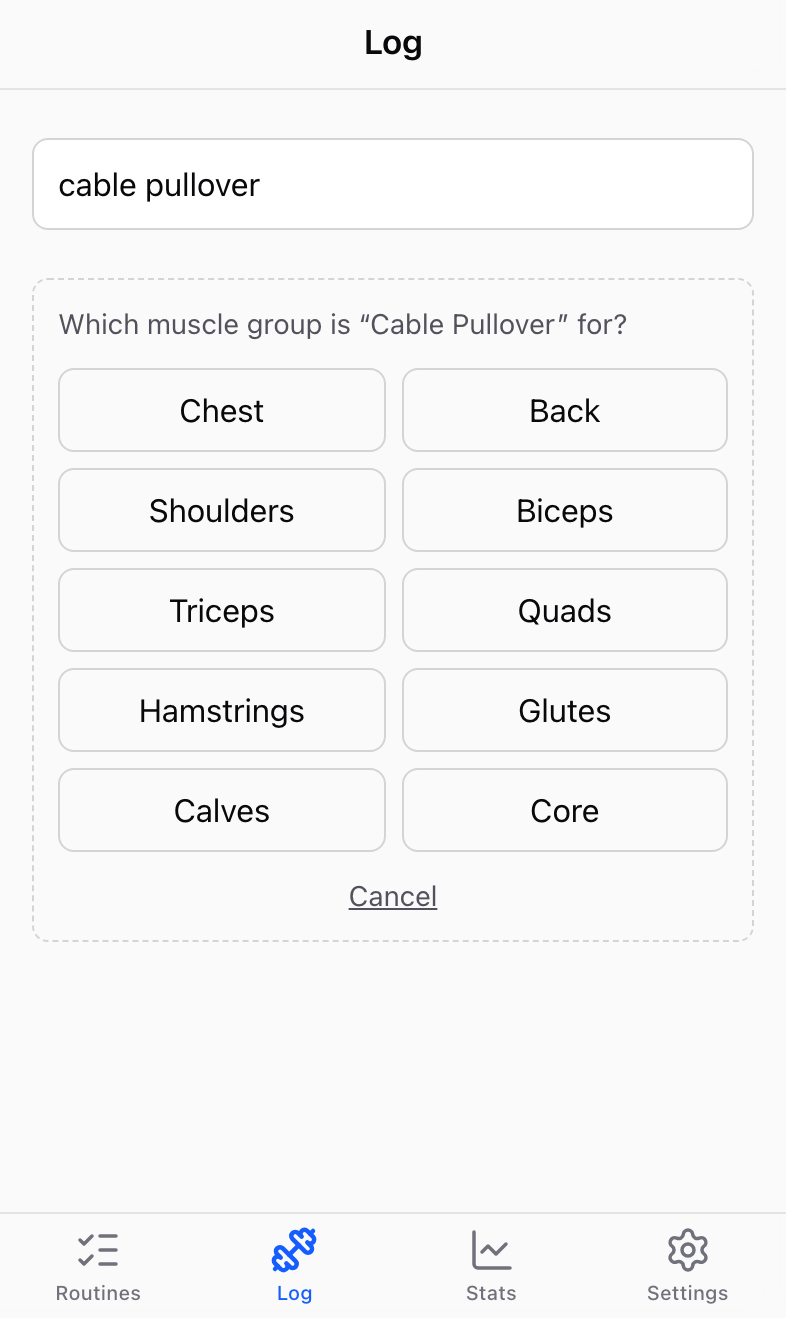
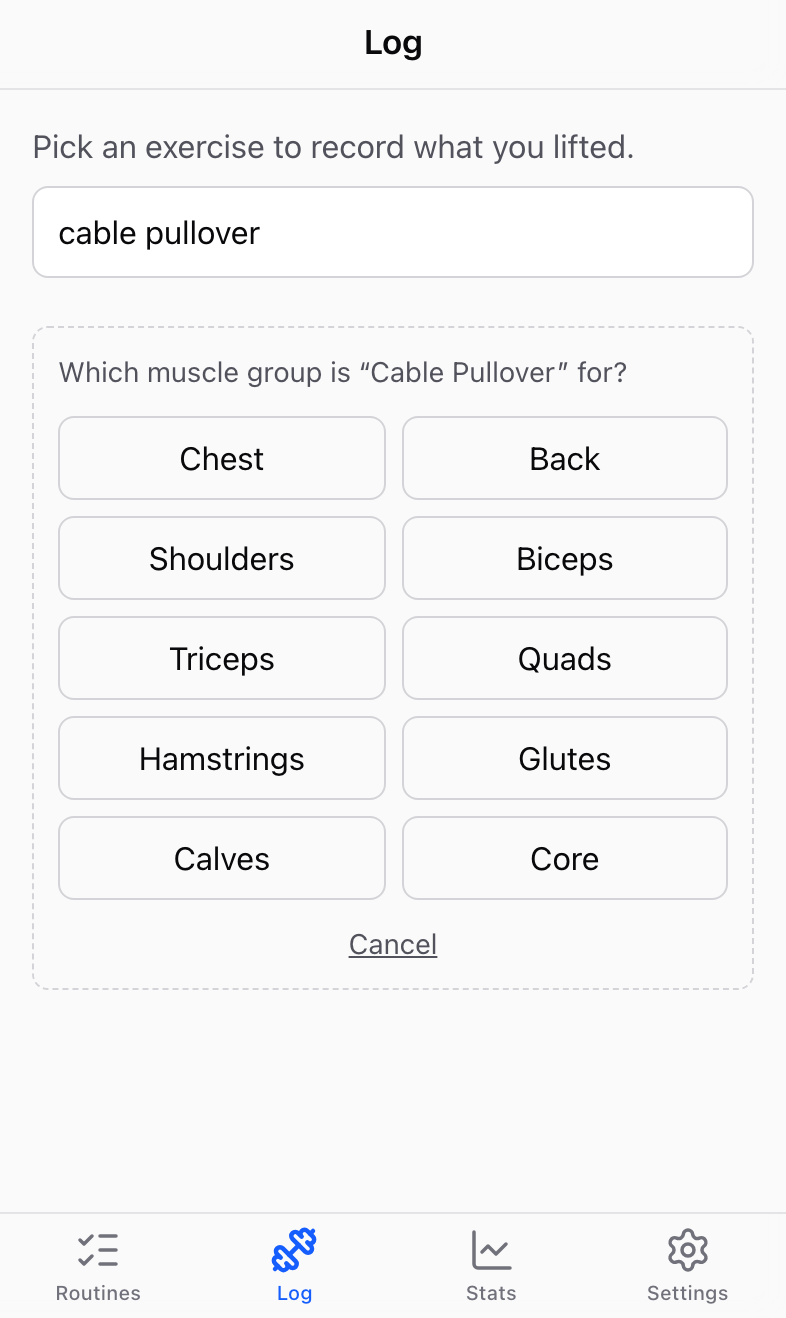
Log and Stats: intro line, Recent exercises, first-time guide
The Log and Stats pickers now start with a one-line explanation and a
Recent section (the last six exercises logged, with the latest entry),
or for a new user a hint about what will appear there. Logging an
exercise for the first time shows a short note on what to enter and how
the pre-fill works; it disappears after the first save.

diff --git a/src/components/exercises/recent-exercises.tsx b/src/components/exercises/recent-exercises.tsx
@@ -1,0 +1,50 @@
+"use client";
+
+import Link from "next/link";
+
+import type { RecentExercise } from "@/lib/entries";
+import { formatDay, formatEntry } from "@/lib/entry-format";
+import { useLocalToday } from "@/lib/use-local-today";
+
+// Exercises logged most recently, for quick access at the top of the Log and
+// Stats pickers. For a new user, a hint about what will appear here.
+export function RecentExercises({
+  recent,
+  basePath,
+  emptyHint,
+}: {
+  recent: RecentExercise[];
+  basePath: string;
+  emptyHint: React.ReactNode;
+}) {
+  const today = useLocalToday();
+
+  return (
+    <section>
+      <h2 className="mb-1 text-xs font-semibold tracking-wide text-zinc-500 uppercase">Recent</h2>
+      {recent.length === 0 ? (
+        <p className="rounded-lg bg-white px-3 py-3 text-sm text-zinc-600 dark:bg-zinc-900 dark:text-zinc-400">
+          {emptyHint}
+        </p>
+      ) : (
+        <ul className="divide-y divide-zinc-200 overflow-hidden rounded-lg bg-white dark:divide-zinc-800 dark:bg-zinc-900">
+          {recent.map((exercise) => (
+            <li key={exercise.id}>
+              <Link
+                href={`${basePath}/${exercise.id}`}
+                className="flex items-baseline justify-between gap-3 px-3 py-3 active:bg-zinc-100 dark:active:bg-zinc-800"
+              >
+                <span className="min-w-0 truncate text-zinc-950 dark:text-zinc-50">{exercise.name}</span>
+                <span className="shrink-0 text-sm text-zinc-500">
+                  {formatEntry(exercise.latest)}
+                  {today &&
+                    ` · ${exercise.latest.date === today ? "Today" : formatDay(exercise.latest.date, today)}`}
+                </span>
+              </Link>
+            </li>
+          ))}
+        </ul>
+      )}
+    </section>
+  );
+}

diff --git a/src/app/(app)/log/page.tsx b/src/app/(app)/log/page.tsx
@@ -1,17 +1,45 @@
 import type { Metadata } from "next";
+import Link from "next/link";
 
 import { ExercisePicker } from "@/components/exercises/exercise-picker";
+import { RecentExercises } from "@/components/exercises/recent-exercises";
 import { Screen } from "@/components/screen";
 import { requireUser } from "@/lib/auth";
+import { listRecentExercises } from "@/lib/entries";
 import { listExercises } from "@/lib/exercises";
 
 export const metadata: Metadata = { title: "Log · Workout Tracker" };
 
 export default async function LogPage() {
   const user = await requireUser();
+  const [exercises, recent] = await Promise.all([
+    listExercises(user.id),
+    listRecentExercises(user.id),
+  ]);
+
   return (
     <Screen title="Log">
-      <ExercisePicker exercises={await listExercises(user.id)} mode={{ tab: "log" }} />
+      <p className="text-zinc-600 dark:text-zinc-400">Pick an exercise to record what you lifted.</p>
+      <ExercisePicker
+        exercises={exercises}
+        mode={{ tab: "log" }}
+        top={
+          <RecentExercises
+            recent={recent}
+            basePath="/log"
+            emptyHint={
+              <>
+                Exercises you log will show up here, so you can find them fast. Doing the same ones
+                each session? Make a{" "}
+                <Link href="/routines" className="font-medium text-blue-600 dark:text-blue-400">
+                  routine
+                </Link>
+                .
+              </>
+            }
+          />
+        }
+      />
     </Screen>
   );
 }

diff --git a/src/app/(app)/stats/page.tsx b/src/app/(app)/stats/page.tsx
@@ -2,8 +2,10 @@ import type { Metadata } from "next";
 import { redirect } from "next/navigation";
 
 import { ExercisePicker } from "@/components/exercises/exercise-picker";
+import { RecentExercises } from "@/components/exercises/recent-exercises";
 import { Screen } from "@/components/screen";
 import { requireUser } from "@/lib/auth";
+import { listRecentExercises } from "@/lib/entries";
 import { listExercises } from "@/lib/exercises";
 
 export const metadata: Metadata = { title: "Stats · Workout Tracker" };
@@ -14,9 +16,27 @@ export default async function StatsPage({ searchParams }: PageProps<"/stats">) {
   if (typeof exercise === "string") redirect(`/stats/${exercise}`);
 
   const user = await requireUser();
+  const [exercises, recent] = await Promise.all([
+    listExercises(user.id),
+    listRecentExercises(user.id),
+  ]);
+
   return (
     <Screen title="Stats">
-      <ExercisePicker exercises={await listExercises(user.id)} mode={{ tab: "stats" }} />
+      <p className="text-zinc-600 dark:text-zinc-400">
+        Pick an exercise to see whether you’re getting stronger.
+      </p>
+      <ExercisePicker
+        exercises={exercises}
+        mode={{ tab: "stats" }}
+        top={
+          <RecentExercises
+            recent={recent}
+            basePath="/stats"
+            emptyHint="Exercises you’ve logged will show up here. Log a few sessions and you’ll see charts of your progress."
+          />
+        }
+      />
     </Screen>
   );
 }

diff --git a/src/lib/entries.ts b/src/lib/entries.ts
@@ -3,7 +3,7 @@ import "server-only";
 import { and, asc, desc, eq } from "drizzle-orm";
 
 import { getDb } from "@/db";
-import { entries } from "@/db/schema";
+import { entries, exercises } from "@/db/schema";
 
 export type Entry = Awaited<ReturnType<typeof listEntries>>[number];
 
@@ -21,3 +21,28 @@ export function listEntries(userId: string, exerciseId: number) {
     .where(and(eq(entries.userId, userId), eq(entries.exerciseId, exerciseId)))
     .orderBy(desc(entries.date), asc(entries.id));
 }
+
+// The exercises the user logged most recently, newest first, each with its
+// latest entry (the first entry of its most recent day, like the log form's
+// pre-fill).
+export async function listRecentExercises(userId: string, limit = 6) {
+  const latest = await getDb()
+    .selectDistinctOn([entries.exerciseId], {
+      id: exercises.id,
+      name: exercises.name,
+      date: entries.date,
+      sets: entries.sets,
+      reps: entries.reps,
+      weight: entries.weight,
+    })
+    .from(entries)
+    .innerJoin(exercises, eq(exercises.id, entries.exerciseId))
+    .where(eq(entries.userId, userId))
+    .orderBy(entries.exerciseId, desc(entries.date), asc(entries.id));
+  return latest
+    .sort((a, b) => b.date.localeCompare(a.date) || a.name.localeCompare(b.name))
+    .slice(0, limit)
+    .map(({ id, name, ...entry }) => ({ id, name, latest: entry }));
+}
+
+export type RecentExercise = Awaited<ReturnType<typeof listRecentExercises>>[number];

diff --git a/src/components/entries/exercise-log.tsx b/src/components/entries/exercise-log.tsx
@@ -7,9 +7,11 @@ import { formatDay, groupByDate, localToday } from "@/lib/entry-format";
 export async function ExerciseLog({
   userId,
   exerciseId,
+  exerciseName,
 }: {
   userId: string;
   exerciseId: number;
+  exerciseName: string;
 }) {
   const history = await listEntries(userId, exerciseId);
   // Pre-fill from the first entry of the most recent day: usually the main
@@ -20,6 +22,16 @@ export async function ExerciseLog({
 
   return (
     <>
+      {!latest && (
+        <div className="rounded-lg bg-blue-50 p-3 text-sm text-blue-950 dark:bg-blue-950 dark:text-blue-100">
+          <p className="font-semibold">First time logging {exerciseName}</p>
+          <p>
+            Enter the weight and reps you did (sets are optional; blank means 1) and tap{" "}
+            <span className="font-semibold">Save</span>. Next time, the form is filled in with what
+            you did last, so you just adjust and save.
+          </p>
+        </div>
+      )}
       <LogForm
         key={exerciseId}
         exerciseId={exerciseId}

diff --git a/src/components/exercises/exercise-picker.tsx b/src/components/exercises/exercise-picker.tsx
@@ -24,7 +24,16 @@ function matches(name: string, query: string) {
 // it to a routine.
 export type PickerMode = { tab: "log" | "stats" } | { routineId: number; alreadyAdded: number[] };
 
-export function ExercisePicker({ exercises, mode }: { exercises: Exercise[]; mode: PickerMode }) {
+export function ExercisePicker({
+  exercises,
+  mode,
+  top,
+}: {
+  exercises: Exercise[];
+  mode: PickerMode;
+  // Shown under the search box while not searching (e.g. recent exercises).
+  top?: React.ReactNode;
+}) {
   const [query, setQuery] = useState("");
   const [adding, setAdding] = useState(false);
   const [state, formAction, pending] = useActionState(addExercise, {});
@@ -103,6 +112,8 @@ export function ExercisePicker({ exercises, mode }: { exercises: Exercise[]; mod
           )}
         </div>
       )}
+
+      {!typedName && top}
 
       {MUSCLE_GROUPS.map((group) => {
         const items = filtered.filter((e) => e.muscleGroup === group);

diff --git a/src/app/(app)/log/[exerciseId]/page.tsx b/src/app/(app)/log/[exerciseId]/page.tsx
@@ -24,7 +24,7 @@ export default async function LogExercisePage({ params }: PageProps<"/log/[exerc
     >
       <div className="flex flex-col gap-4">
         <ExerciseMeta exercise={exercise} />
-        <ExerciseLog userId={user.id} exerciseId={exercise.id} />
+        <ExerciseLog userId={user.id} exerciseId={exercise.id} exerciseName={exercise.name} />
       </div>
     </Screen>
   );

diff --git a/src/app/(app)/routines/[id]/[exerciseId]/page.tsx b/src/app/(app)/routines/[id]/[exerciseId]/page.tsx
@@ -33,7 +33,7 @@ export default async function RoutineExercisePage({
     >
       <div className="flex flex-col gap-4">
         <ExerciseMeta exercise={exercise} />
-        <ExerciseLog userId={user.id} exerciseId={exercise.id} />
+        <ExerciseLog userId={user.id} exerciseId={exercise.id} exerciseName={exercise.name} />
       </div>
     </Screen>
   );

diff --git a/docs/how-it-works.md b/docs/how-it-works.md
@@ -107,17 +107,22 @@ them.
 <table>
   <tr>
     <td><img src="screenshots/log-exercise.png" width="260" alt="Logging Overhead Press"></td>
+    <td><img src="screenshots/log-first-time.png" width="260" alt="Logging an exercise for the first time"></td>
     <td><img src="screenshots/edit-entry.png" width="260" alt="Editing a past entry"></td>
   </tr>
   <tr>
     <td>The form is pre-filled from last time; history is below.</td>
+    <td>The first time, a note explains what to do.</td>
     <td>Tap any past entry to fix or delete it.</td>
   </tr>
 </table>
 
-Open an exercise from a routine or from the **Log** tab. You get:
+Open an exercise from a routine or from the **Log** tab. The Log tab lists your
+**Recent** exercises at the top, with what you did last, so the ones you do
+often are one tap away. You get:
 
-- **The form**, pre-filled with your most recent entry. Use − / + to adjust
+- **The form**, pre-filled with your most recent entry. The first time you log an
+  exercise, a short note explains what to enter. Use − / + to adjust
   (weight moves in 5 lb steps, reps and sets by 1) or type any value, like
   137.5. **Sets** is optional; blank means a single set.
 - **The date**, which defaults to today on your phone. Change it to log
@@ -140,7 +145,7 @@ Weights are in pounds.
     <td><img src="screenshots/add-exercise.png" width="260" alt="Adding a custom exercise"></td>
   </tr>
   <tr>
-    <td>About 85 common exercises, grouped by muscle.</td>
+    <td>Your recent exercises first, then about 85 more, grouped by muscle.</td>
     <td>Not there? Type it and add it.</td>
   </tr>
 </table>
@@ -168,7 +173,8 @@ its muscle group. Custom exercises are private to you and marked "Custom".
   </tr>
 </table>
 
-Pick an exercise in the **Stats** tab, or tap the chart icon while logging it.
+Pick an exercise in the **Stats** tab (your recent ones are at the top), or tap
+the chart icon while logging it.
 Choose a range (3 months, 6 months, 1 year or all) and you get:
 
 - **Trend**: whether you're getting stronger (↑), holding steady (→ Flat) or
